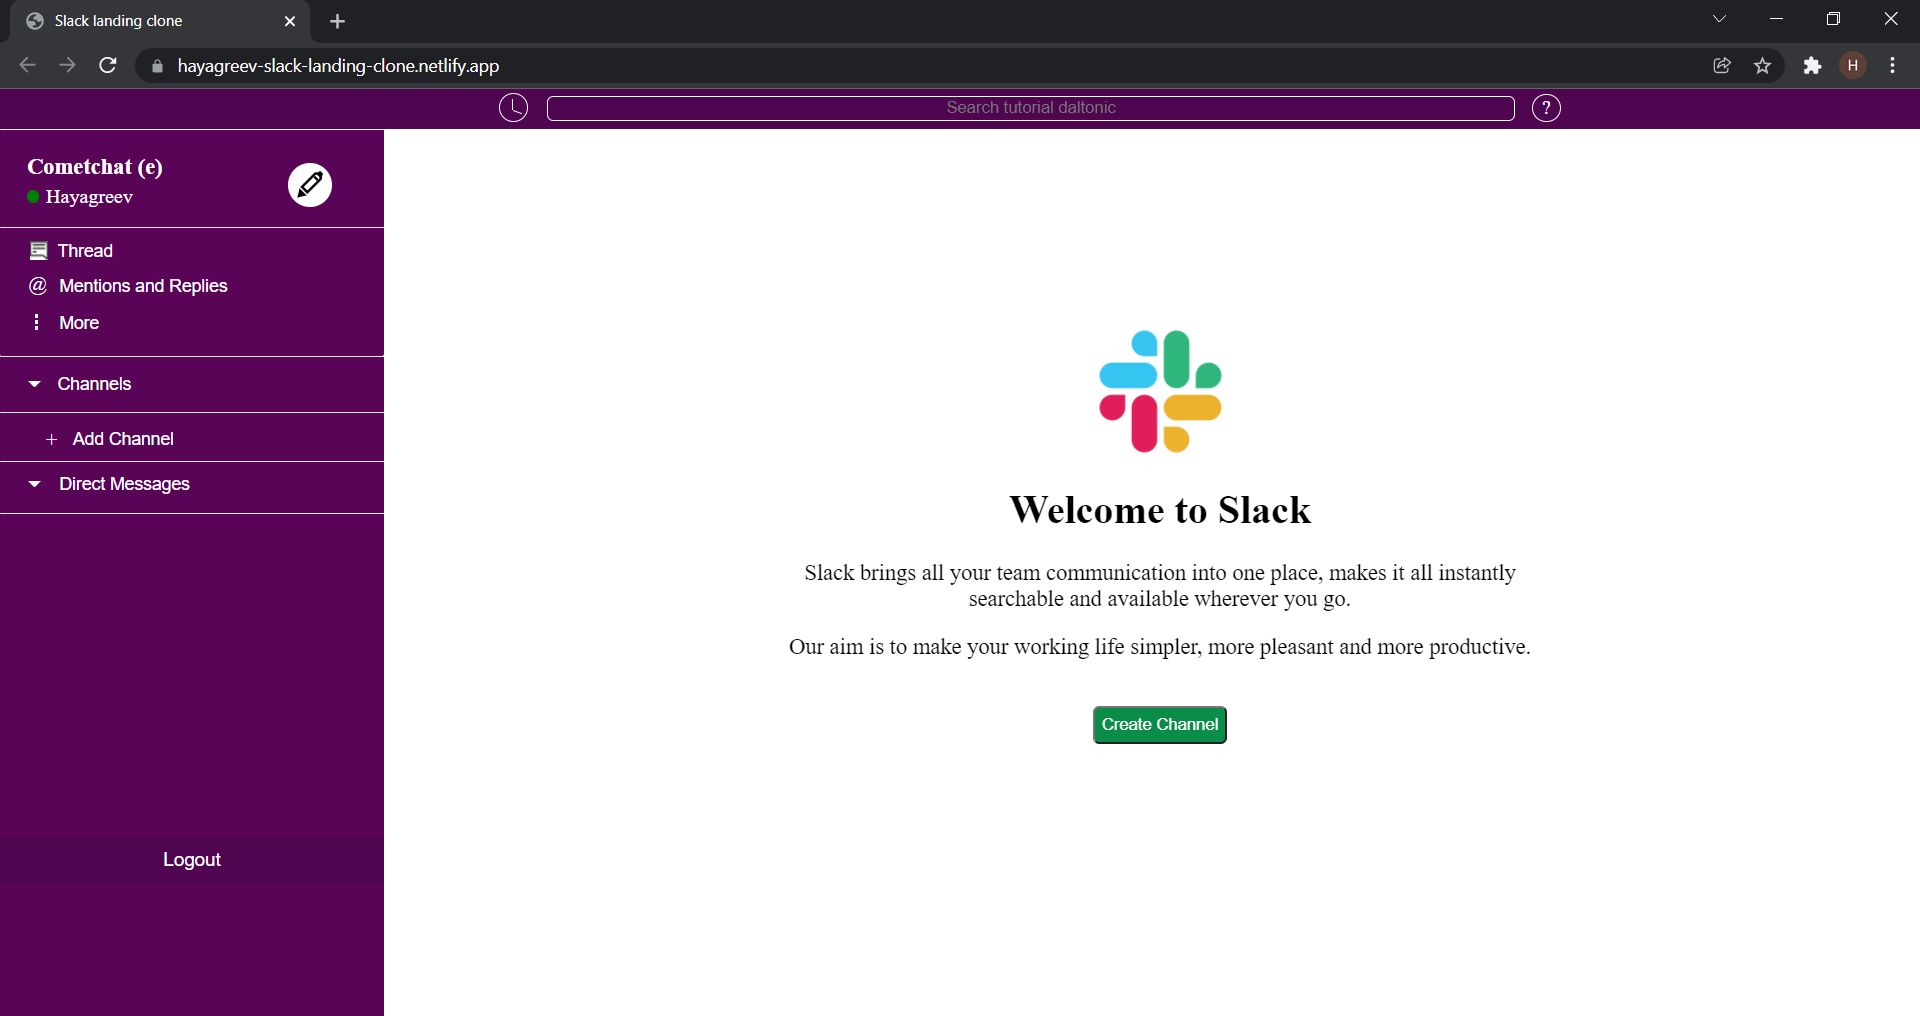
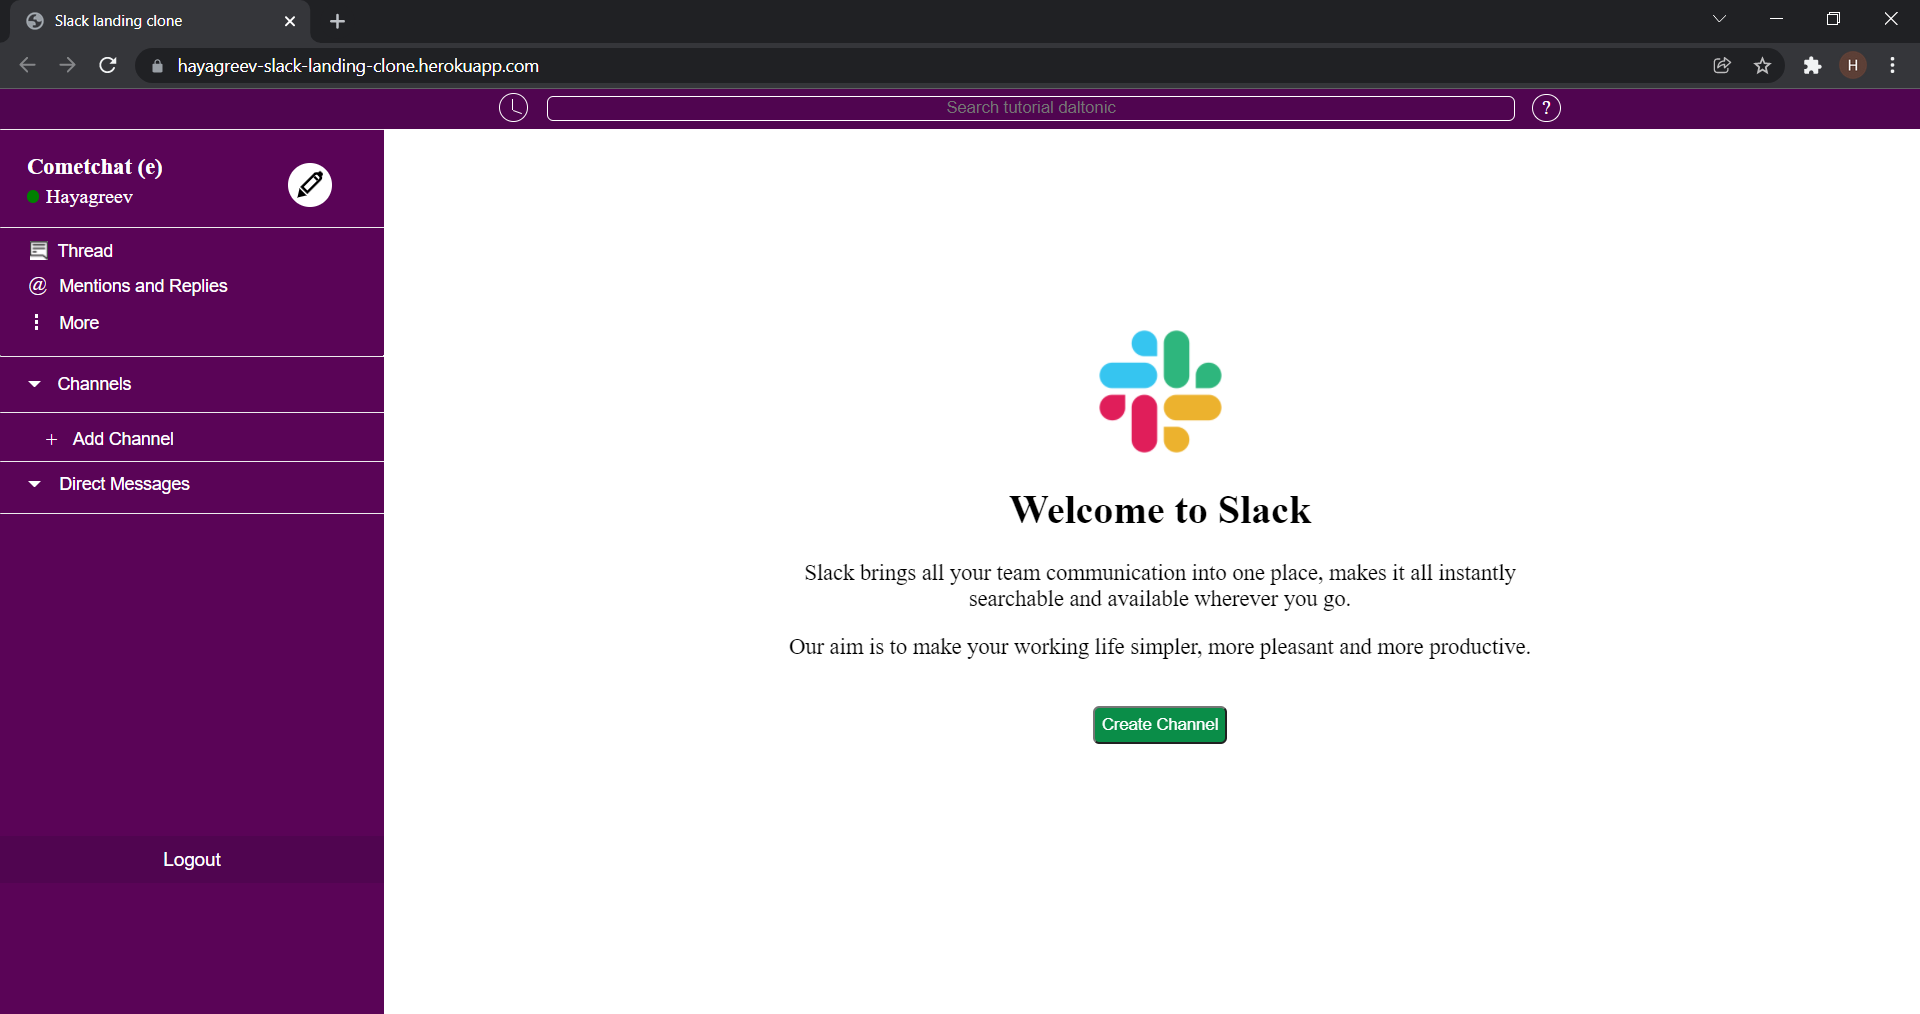
updated readme

diff --git a/README.md b/README.md
@@ -1,7 +1,7 @@
 # Slack Landing Page Clone
 This is an almost-clone of the slack landing page. I have added my touch to the design which is why this is an almost-clone of the existing slack landing page. This page is not yet responsive and I have built this completely using CSS. The buttons don't do anything yet but I'm thinking of adding backend functionality at a later point in time. I have added the screenshot of slack's default landing page that I have used as a reference to build the clone.
 
-You can find the working version of this page at https://hayagreev-slack-landing-clone.netlify.app/
+You can find the working version of this page at https://hayagreev-slack-landing-clone.herokuapp.com/
 
 # Screenshot of the page:
 ![alt text](Screenshots/Clone.png "Slack Landing Clone")
